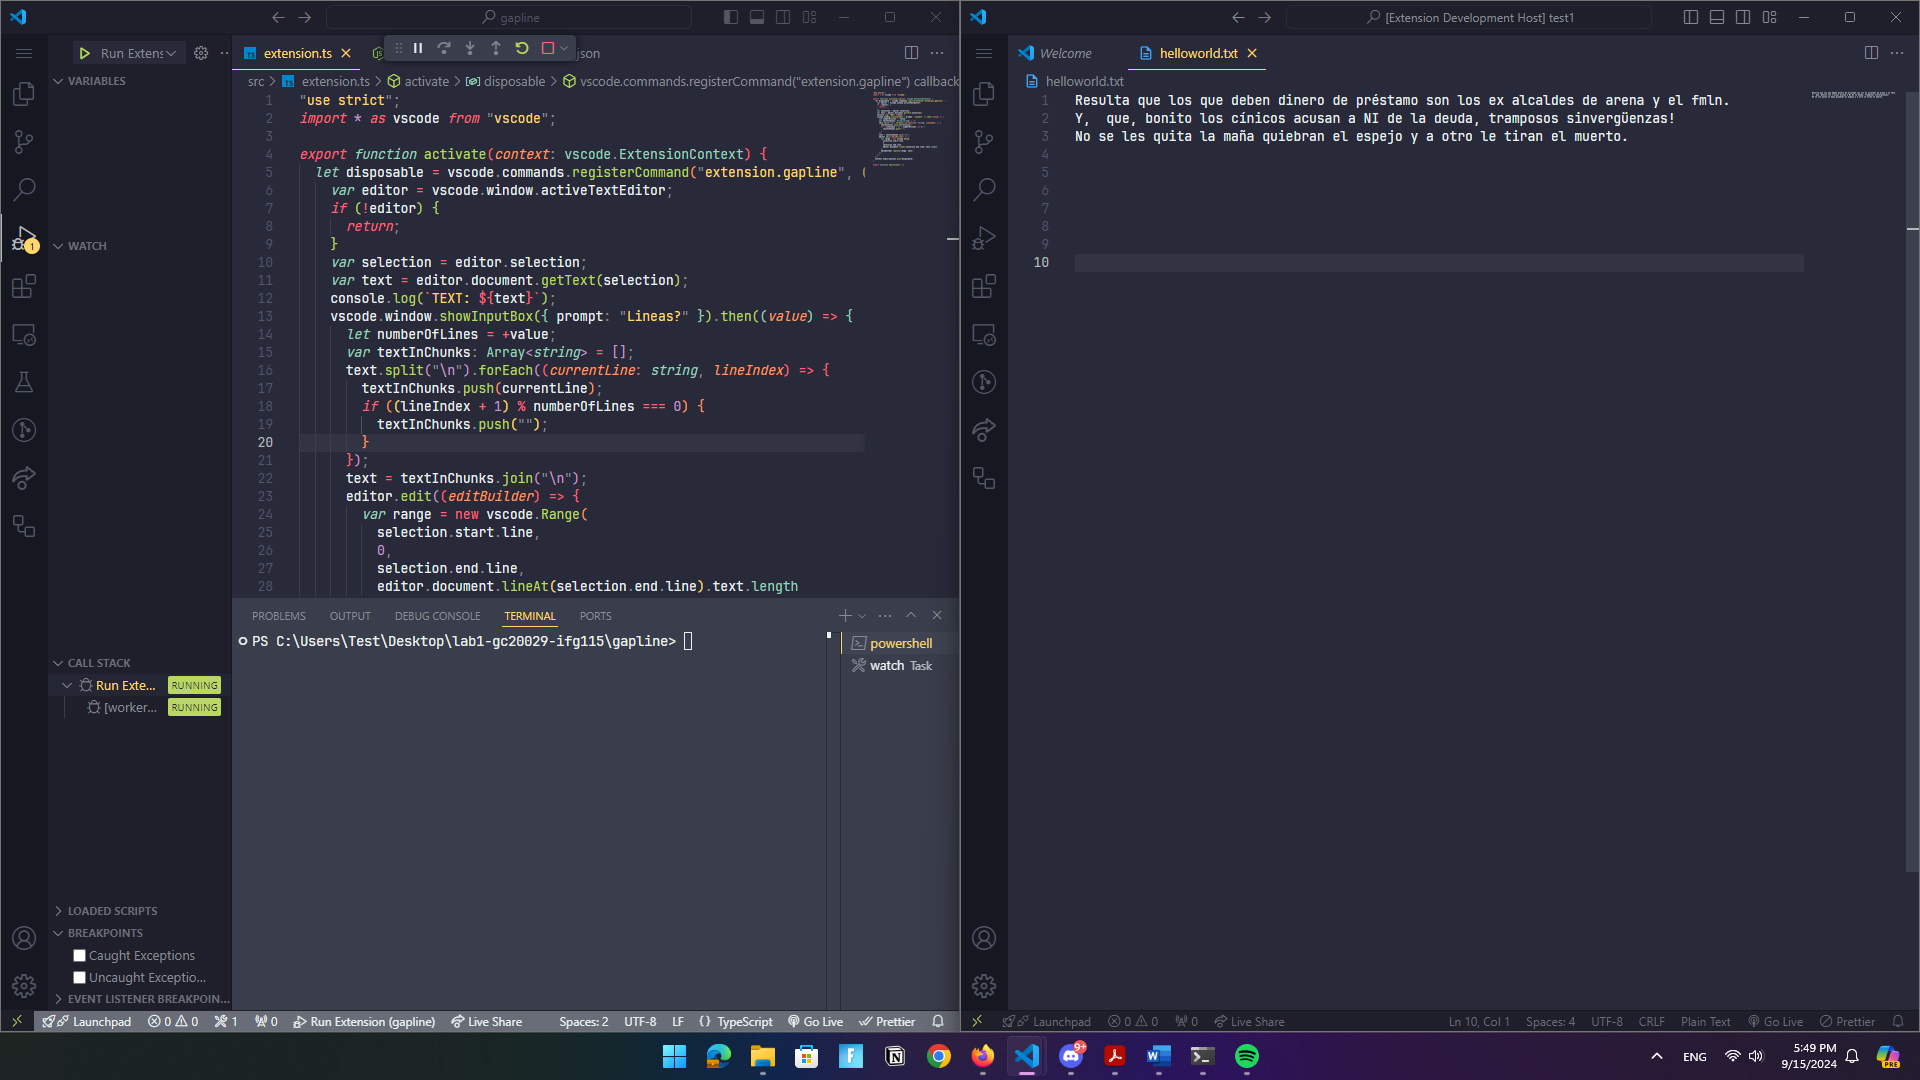
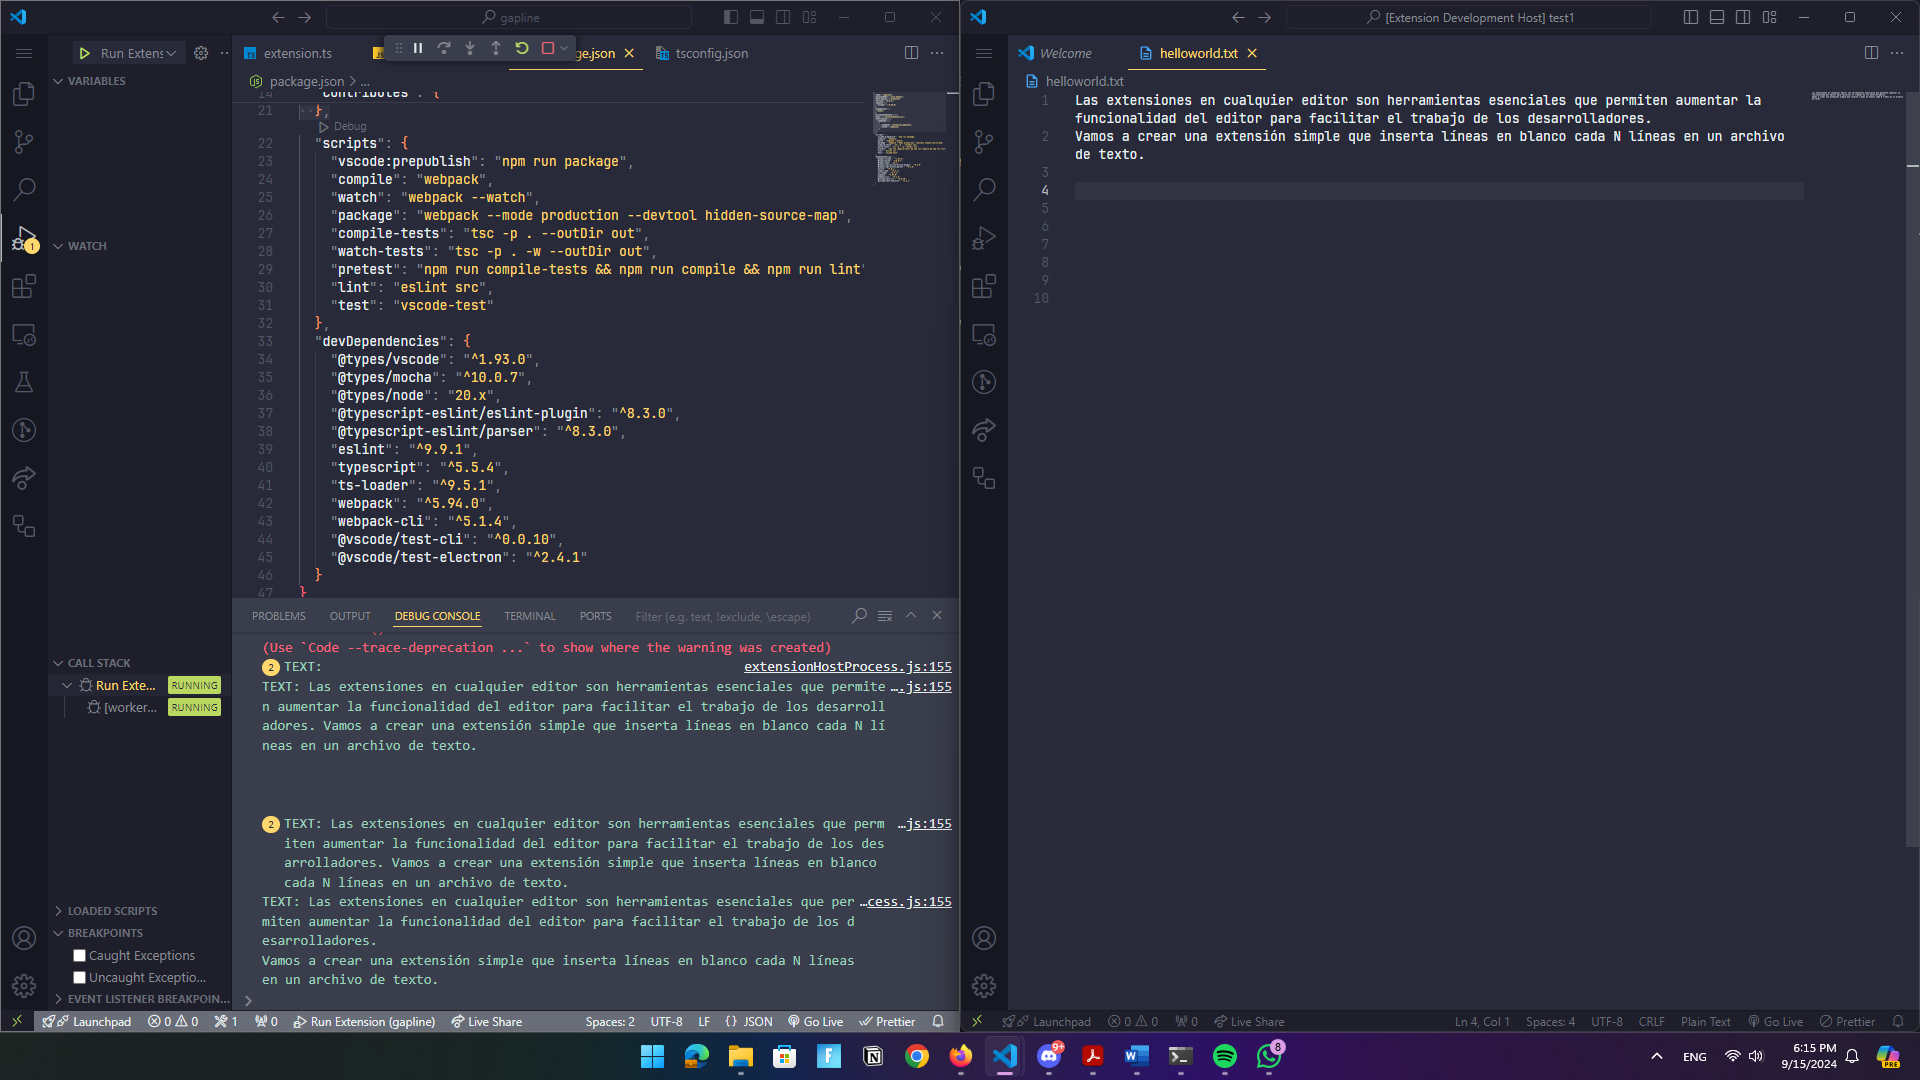
fix: :bug: update screenshots

diff --git a/index.md b/index.md
@@ -67,7 +67,7 @@ Abre el proyecto en VS Code y analiza el listado de archivos que aparecen, el qu
 Ese archivo es donde se encuentra el código de ejemplo para la extensión. Reemplazaremos el codigo que muestra Hello World para agregar la funcionalidad de insertar lineas en blanco en textos.
 
 
-```ts
+```js
 
 'use strict'; 
 // Modo estricto de JavaScript para escribir código más seguro y evitar errores comunes.
